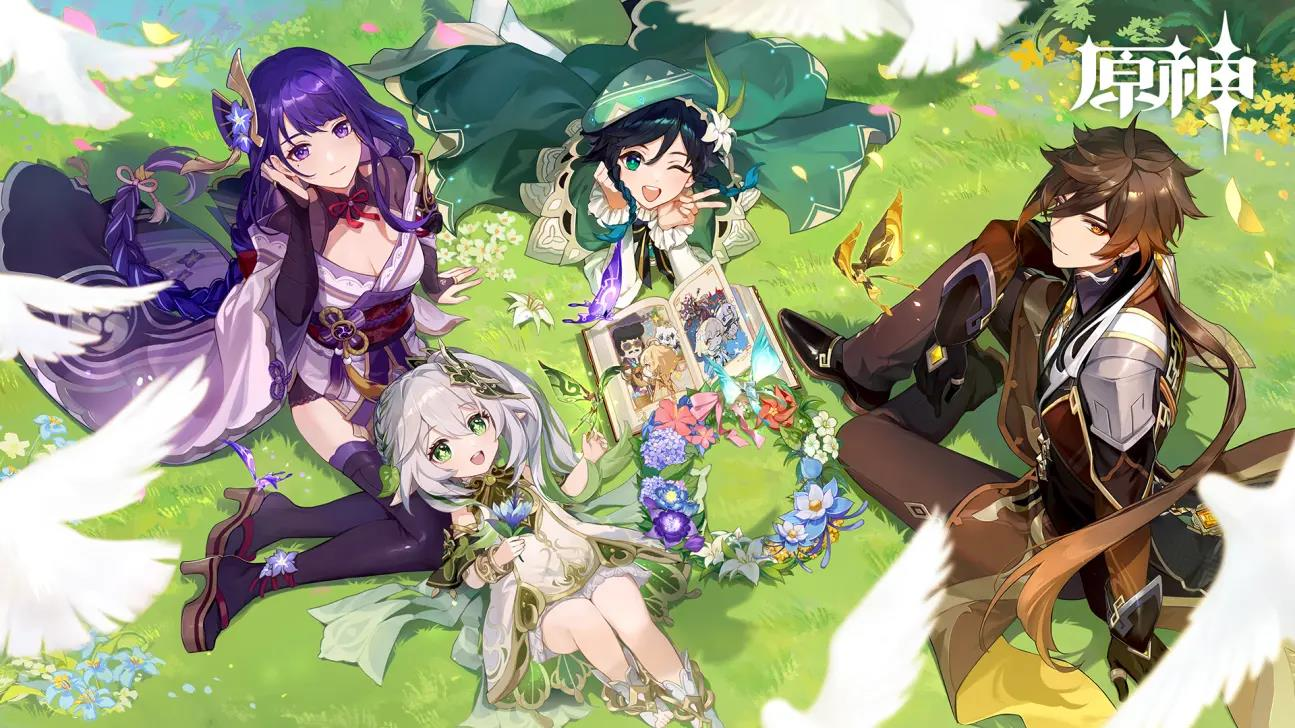
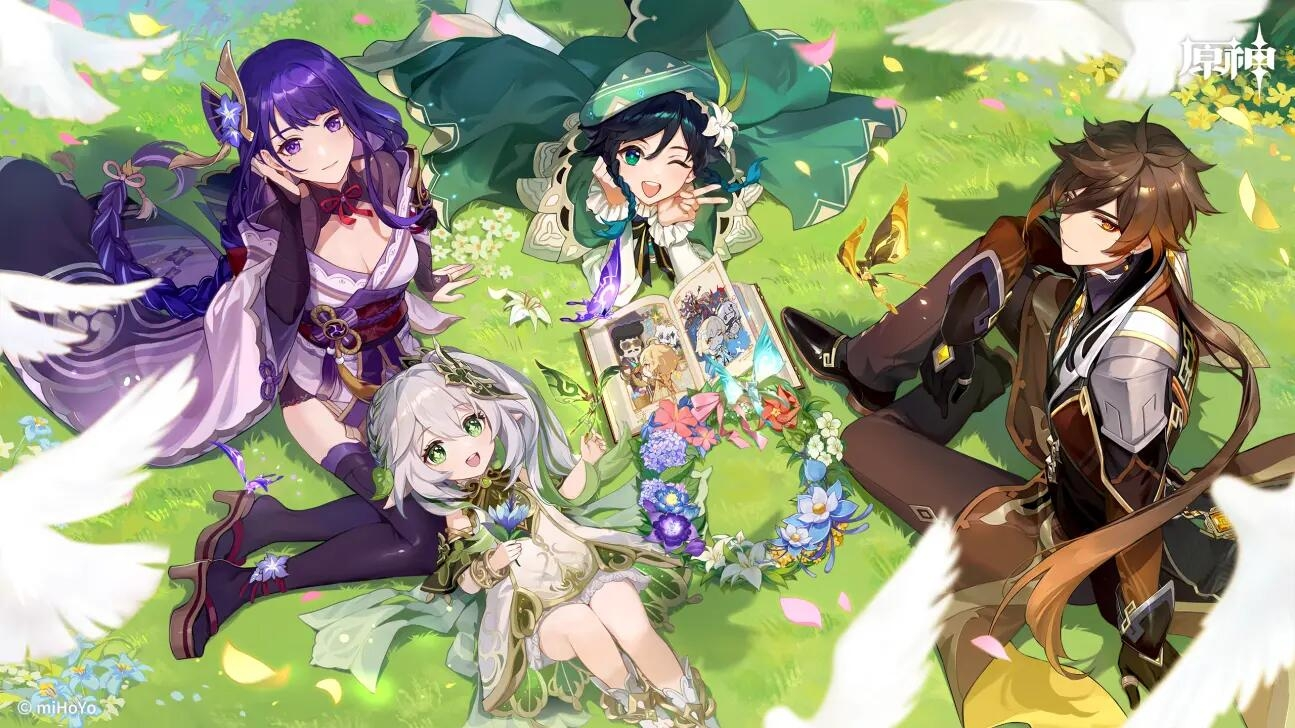
:sparkles: feat: add the background image in the news page asyNc-web#50
Now it adds a background image in the news page and set the transparency of the card.

finish asyNc-web#50

diff --git a/src/views/content/NewsHome.vue b/src/views/content/NewsHome.vue
@@ -167,43 +167,6 @@ export default defineComponent({
                 </n-grid-item>
             </n-grid>
         </n-card>
-        <div v-for="(news, index) in all_news" :key = index style="margin-bottom:20px;margin-top:50px;text-align:left">
-            <n-card class="card_bordered">
-                <div v-if="news.picture_url != ''">
-                    <!-- 若新闻带有头图，则布置栅格插件来分布图片与文案 -->
-                    <n-grid cols="4" item-responsive>
-                        <n-grid-item span="0 400:1 600:2 800:3">
-                            <div>
-                                <!-- 插入新闻链接与文本 -->
-                                <a :href="news.news_url" target="_blank">
-                                    <n-h3 style="text-align:left">
-                                        {{news.title}}
-                                    </n-h3>
-                                </a>
-                                <div style="text-align:left">
-                                    {{news.content}}
-                                </div>
-                            </div>
-                        </n-grid-item>
-                        <n-grid-item>
-                            <n-image :src = "news.picture_url" :fallback-src = news.picture_url width=100 />
-                        </n-grid-item>
-                    </n-grid>
-                </div>
-                <div v-else>
-                    <div>
-                        <a :href="news.news_url" target="_blank">
-                            <n-h3 style="text-align:left">
-                                {{news.title}}
-                            </n-h3>
-                        </a>
-                        <div style="text-align:left">
-                            {{news.content}}
-                        </div>
-                    </div>
-                </div>
-            </n-card>
-        </div>   
         <div style="width:100%;height:30px; background-color:blue;color:white;text-align: center;">
             copyright by asyNc
         </div>      
@@ -240,16 +203,6 @@ body {
     vertical-align: top;
 }
 
-.background {
-    /* 规定背景图片 */
-    background: url("@/assets/background.jpg");
-    width: 100%;
-    height: 100vh;
-    background-size: 100% 100%;
-    position: fixed;
-    overflow: auto
-    /* 保证背景可以滑动 */
-}
 
 .card_bordered {
     display: flex; 
@@ -257,11 +210,13 @@ body {
     border-radius:15px;
     width:80%;
     margin: auto; 
-    margin-top: 5%;
-    box-shadow:    0px -0.5px 5px #808080,   /*上边阴影  红色*/
-    -0.5px 0px 5px #808080,   /*左边阴影  绿色*/
-    0.5px 0px 5px #808080,    /*右边阴影  蓝色*/
-    0px 0.5px 5px #808080;    /*下边阴影  黄色*/
+    margin-top: 2.5%;
+    margin-bottom: 2.5%;
+    background-color: rgba(255, 255, 255, 0.7);
+    box-shadow:    0px -0.5px 5px #808080,   /*上边阴影 */
+    -0.5px 0px 5px #808080,   /*左边阴影 */
+    0.5px 0px 5px #808080,    /*右边阴影 */
+    0px 0.5px 5px #808080;    /*下边阴影  */
 }
 .carousel-img {
   width: 100%;

diff --git a/src/views/MainSurface.vue b/src/views/MainSurface.vue
@@ -9,7 +9,7 @@
 <template>
   <body>
     <n-layout position="absolute" style="top: 0px;bottom: 0px;">
-        <n-layout-header style="box-shadow:0px 2px 2px #808080 ;width:100%;top: 0;left: 0; position: fixed;background-color: aqua ;  text-align:center;">
+        <n-layout-header style="box-shadow:0px 2px 2px #808080 ;width:100%;top: 0;left: 0; position: fixed; text-align:center;">
             <!-- 布置顶部导航栏 -->
             <!-- 每一个按钮对应着相同的跳转网址 -->
             <tr>
@@ -50,7 +50,7 @@
             <!-- 支持切换账号和退出登录 -->
             </tr>
         </n-layout-header>
-        <n-layout position="absolute" style="top: 64px;bottom: 0px;">
+        <n-layout class="background_image" position="absolute" style="top: 50px;bottom: 0px;">
             <router-view></router-view>
         </n-layout>
     </n-layout>
@@ -188,6 +188,15 @@ export default defineComponent({
     /* 不同按钮需在同一行 */
 }
 
-
+.background_image {
+    background-image:url('../assets/background.jpg');
+    background-repeat: no-repeat;
+    background-position: center;
+    /*  z-index:1; */
+    position: fixed;
+    width: 100%;
+    height: 100vh;
+    overflow: auto;
+}
 
 </style>
